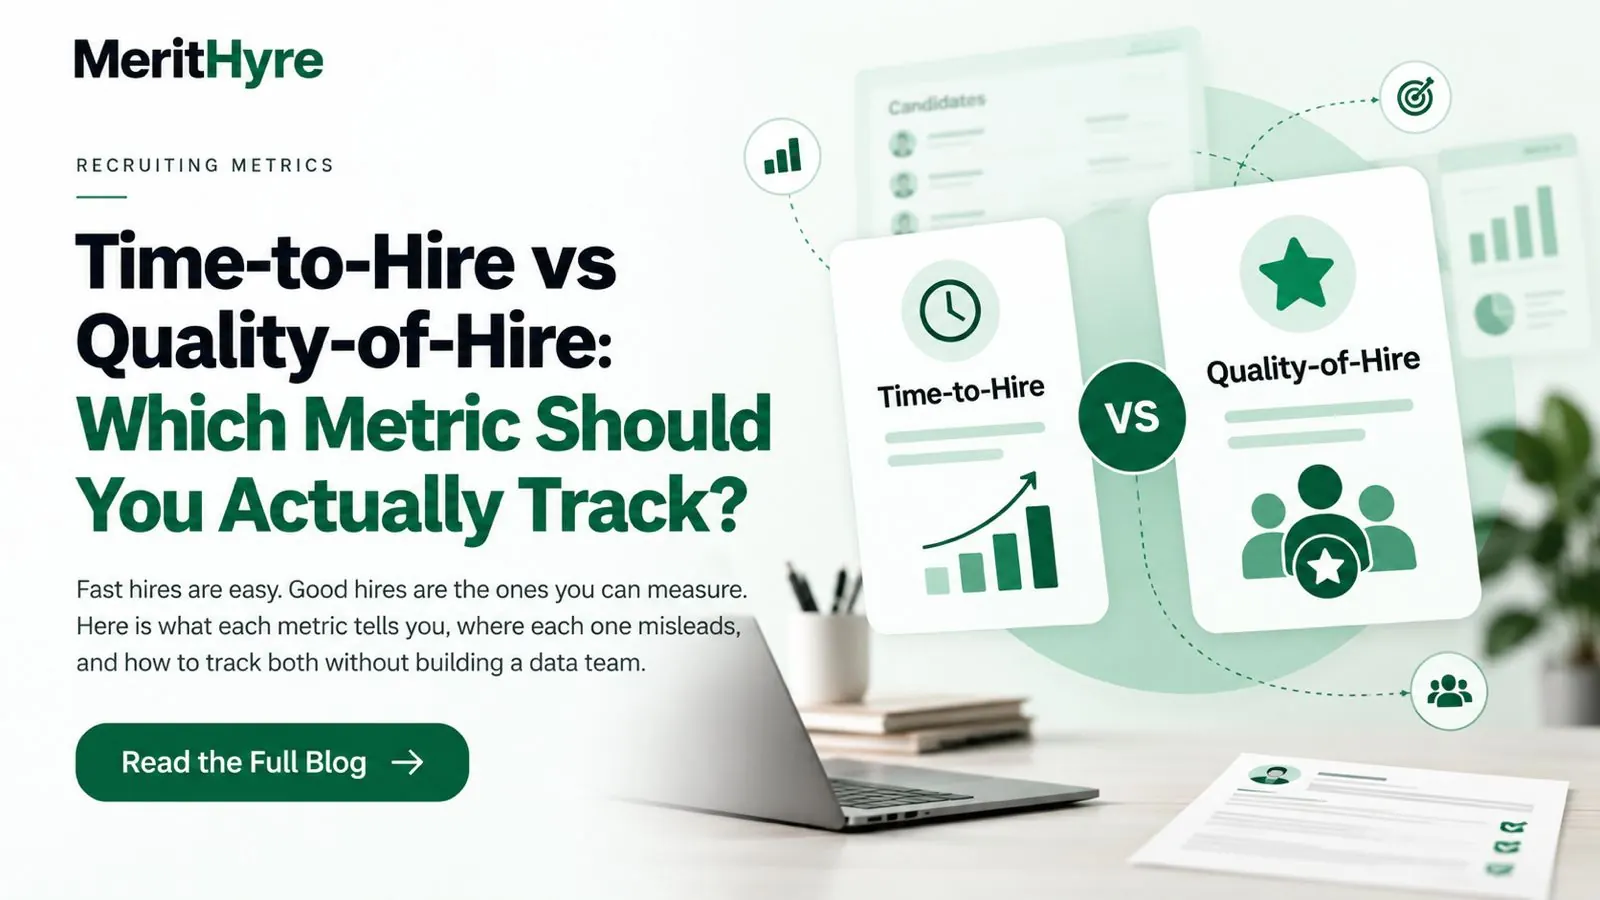
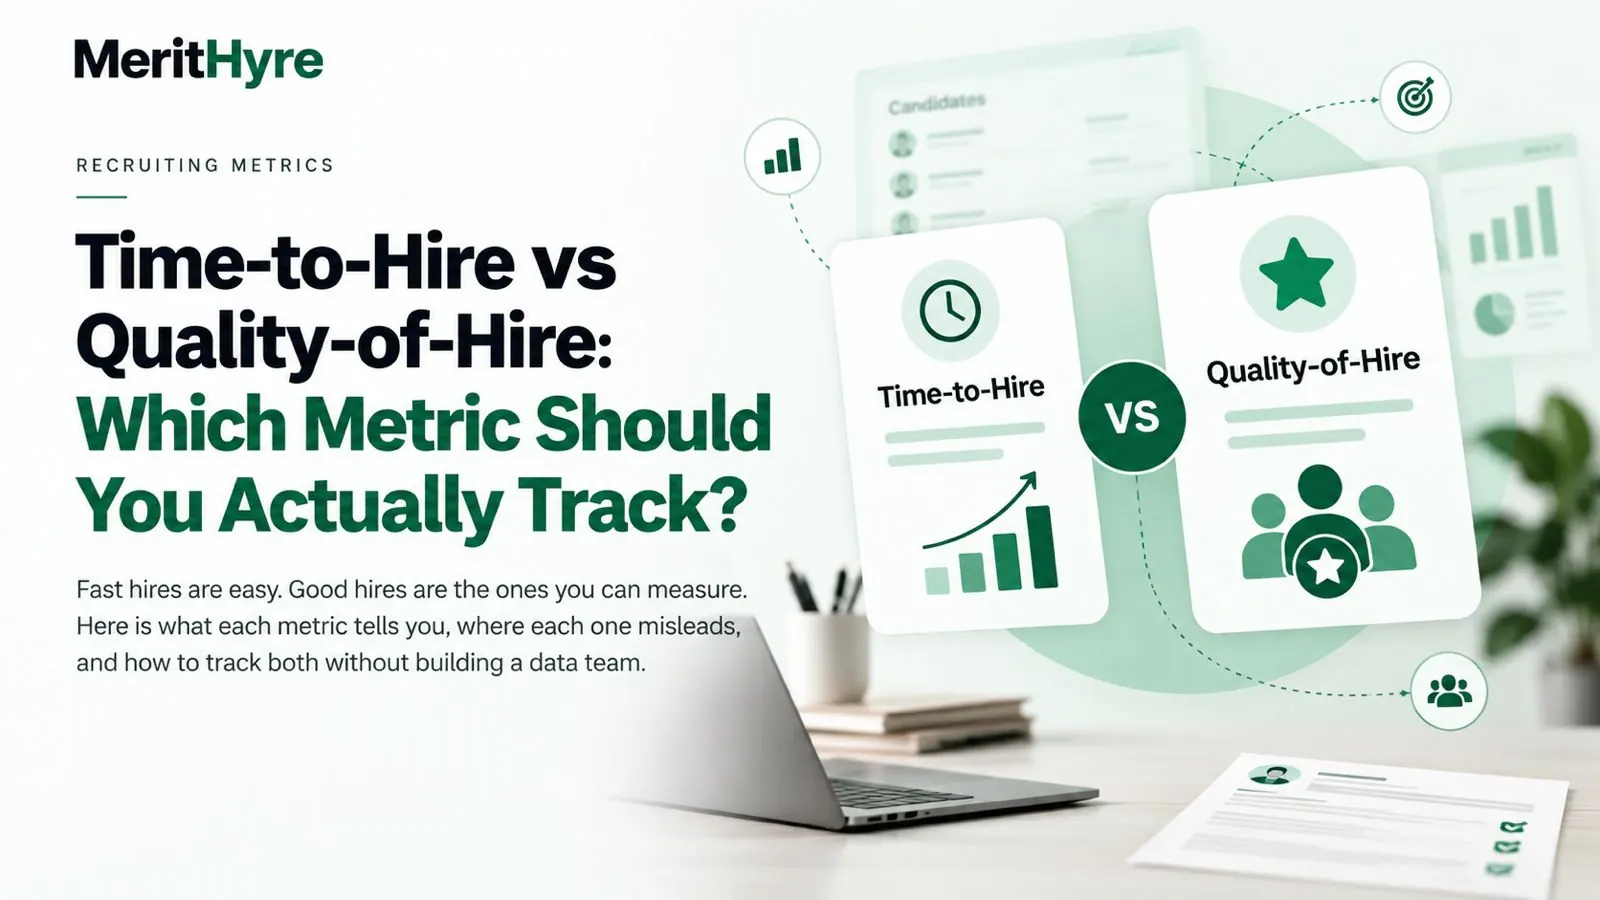
Blog: editorial fixes kept in the import script
- Title colon restored on the automation guide.
- Charts 1 and 4 of "Every recruiter has felt it" swapped to sit next to
  their own text (the WordPress source had them the wrong way round).
- In-body calls to action that linked to the homepage now go to the demo
  page, the compliance section or pricing, matching their labels.
- Closing section of the time-to-hire post is an h2 (now in the TOC).
- "Read the Full Blog" button retouched out of the time-to-hire cover.
- Card excerpts rewritten so they don't repeat each post's opening.

Claude-Session: https://claude.ai/code/session_011WhkK4TtMjCrBqeX9DW1or

Changed region(s): [[0.0312, 0.7778, 0.3125, 0.9022]]

diff --git a/scripts/import-wordpress-posts.py b/scripts/import-wordpress-posts.py
@@ -169,6 +169,88 @@ COPY = {
 # Descriptive alt text, keyed by the image's original upload path (size and
 # edit suffixes removed). The WordPress alt texts mostly repeat the post title,
 # and two inline charts have none.
+# Editorial fixes applied after conversion. Every "replace" pair is an exact substring
+# of the converted body and must match exactly once (the import fails otherwise), so a
+# fix can never silently stop applying after the source changes.
+EDITORIAL = {
+    "ai-recruitment-automation-the-complete-guide-to-fixing-hiring-bottlenecks": {
+        # The WordPress title is missing the colon the on-page headline has.
+        "title": "AI Recruitment Automation: The Complete Guide to Fixing Hiring Bottlenecks",
+    },
+    "every-recruiter-has-felt-it-you-fill-the-role-and-three-months-later-youre-starting-the-exact-same-search-from-zero": {
+        # In the WordPress source, charts 1 and 4 sit next to each other's text.
+        "swap_images": [("search-from-zero-1", "search-from-zero-4")],
+    },
+    "nyc-local-law-144-compliance-checklist-for-ai-hiring-tools-2026": {
+        # In-body calls to action linked to the homepage; send them where the label points.
+        "replace": [
+            ('<a href="/">Check Your Compliance Status With MeritHyre \u2192</a>',
+             '<a href="/contact-us/?topic=demo">Check Your Compliance Status With MeritHyre \u2192</a>'),
+            ('<a href="/">Explore MeritHyre\u2019s Compliance Tools \u2192</a>',
+             '<a href="/#compliance">Explore MeritHyre\u2019s Compliance Tools \u2192</a>'),
+            ('<a href="/">Start Your Free MeritHyre Trial \u2192</a>',
+             '<a href="/contact-us/?topic=demo">Start Your Free MeritHyre Trial \u2192</a>'),
+        ],
+    },
+    "ai-native-vs-bolt-on-ai-recruiting-whats-actually-different": {
+        "replace": [
+            ('<a href="/">See MeritHyre in Action \u2192</a>', '<a href="/contact-us/?topic=demo">See MeritHyre in Action \u2192</a>'),
+            ('<a href="/">Start Building Your AI Pipeline for $99 \u2192</a>',
+             '<a href="/pricing/">Start Building Your AI Pipeline for $99 \u2192</a>'),
+            ('<a href="/">Get Started with MeritHyre Today \u2192</a>',
+             '<a href="/contact-us/?topic=demo">Get Started with MeritHyre Today \u2192</a>'),
+        ],
+    },
+    "time-to-hire-vs-quality-of-hire-which-metric-should-you-actually-track": {
+        # The closing call to action follows the FAQ questions as an h3 and reads like
+        # another question; make it a section of its own (it then appears in the TOC).
+        "replace": [
+            ("<h3>Measure the Hires That Matter, Not Just the Speed</h3>",
+             '<h2 id="measure-the-hires-that-matter">Measure the Hires That Matter, Not Just the Speed</h2>'),
+        ],
+    },
+}
+
+# Pixel retouches on output images: boxes (left, top, right, bottom) in output pixels are
+# filled by blending the rows just above and below. The time-to-hire cover has a "Read the
+# Full Blog" button baked into the artwork, which reads oddly on the post itself.
+RETOUCH = {
+    "time-to-hire-vs-quality-cover": [(64, 708, 486, 816)],
+}
+
+
+def retouch(im, boxes):
+    px = im.load()
+    for left, top, right, bottom in boxes:
+        for x in range(left, right):
+            above, below = px[x, top - 1], px[x, bottom]
+            span = bottom - top + 1
+            for y in range(top, bottom):
+                f = (y - top + 1) / span
+                px[x, y] = tuple(round(above[c] * (1 - f) + below[c] * f) for c in range(len(above)))
+    return im
+
+
+def apply_editorial(slug: str, title: str, body: str, toc: list) -> tuple:
+    fix = EDITORIAL.get(slug)
+    if not fix:
+        return title, body, toc
+    title = fix.get("title", title)
+    for old, new in fix.get("replace", []):
+        count = body.count(old)
+        if count != 1:
+            raise ConversionError(f"{slug}: editorial fix matched {count} times: {old[:60]}")
+        body = body.replace(old, new)
+    for a, b in fix.get("swap_images", []):
+        tag = lambda name: re.search(r'<img[^>]*src="[^"]*/' + re.escape(name) + r'\.[a-z]+"[^>]*>', body)
+        ta, tb = tag(a), tag(b)
+        if not (ta and tb):
+            raise ConversionError(f"{slug}: images to swap not found: {a}, {b}")
+        body = body.replace(ta.group(0), "\0SWAP\0").replace(tb.group(0), ta.group(0)).replace("\0SWAP\0", tb.group(0))
+    toc = [{"id": m.group(1), "text": strip_html(m.group(2))} for m in re.finditer(r'<h2 id="([^"]+)">(.*?)</h2>', body, re.S)]
+    return title, body, toc
+
+
 ALT_TEXT = {
     # Featured images
     "2026/11/WhatsApp-Image-2026-10-31-at-1.30.33-AM.jpeg": "A time-to-hire card with a clock and rising bar chart set against a quality-of-hire card with a star and team icon",
@@ -437,6 +519,8 @@ def write_web_image(ctx: Context, data: bytes, base_name: str, source_url: str) 
             im = im.convert("RGB")
         if im.width > MAX_IMAGE_WIDTH:
             im = im.resize((MAX_IMAGE_WIDTH, round(im.height * MAX_IMAGE_WIDTH / im.width)), Image.LANCZOS)
+        if base_name in RETOUCH:
+            im = retouch(im, RETOUCH[base_name])
         buffer = io.BytesIO()
         if ctx.use_webp:
             ext = ".webp"
@@ -1238,6 +1322,7 @@ def convert_post(ctx: Context, post: dict) -> dict:
         first_paragraphs = " ".join(text_of(p) for p in root.find_all("p")[:3])
         description, excerpt = auto_copy(first_paragraphs, 120, 160), auto_copy(first_paragraphs, 100, 220)
         ctx.warn(slug, "description/excerpt generated automatically; add hand-written copy to COPY")
+    title, body, toc = apply_editorial(slug, title, body, toc)
     if not 120 <= len(description) <= 160:
         ctx.warn(slug, f"description is {len(description)} chars (want 120-160)")
     if len(excerpt) > 230:

diff --git a/README.md b/README.md
@@ -52,6 +52,9 @@ The 12 posts from the WordPress site were migrated into `src/content/blog/posts.
 table of contents, reading time) with their images converted to WebP in `public/blog/images/`.
 
 - **Re-import from WordPress:** `scripts/import-wordpress-posts.py` (requirements are listed at the top of the script).
+  Hand-made corrections live in the script's `EDITORIAL` and `RETOUCH` tables, so a re-import keeps them: a fixed title,
+  two swapped charts, in-body calls to action pointed at the demo/pricing pages, and the "Read the Full Blog" button
+  removed from the time-to-hire cover artwork.
 - **Add or edit a post:** edit `posts.json` (keep the same fields). The page, sitemap entry, RSS item and
   structured data are generated from it.
 - Body HTML is restricted to headings, paragraphs, lists, links, quotes, tables and images, and is styled by `.article`
